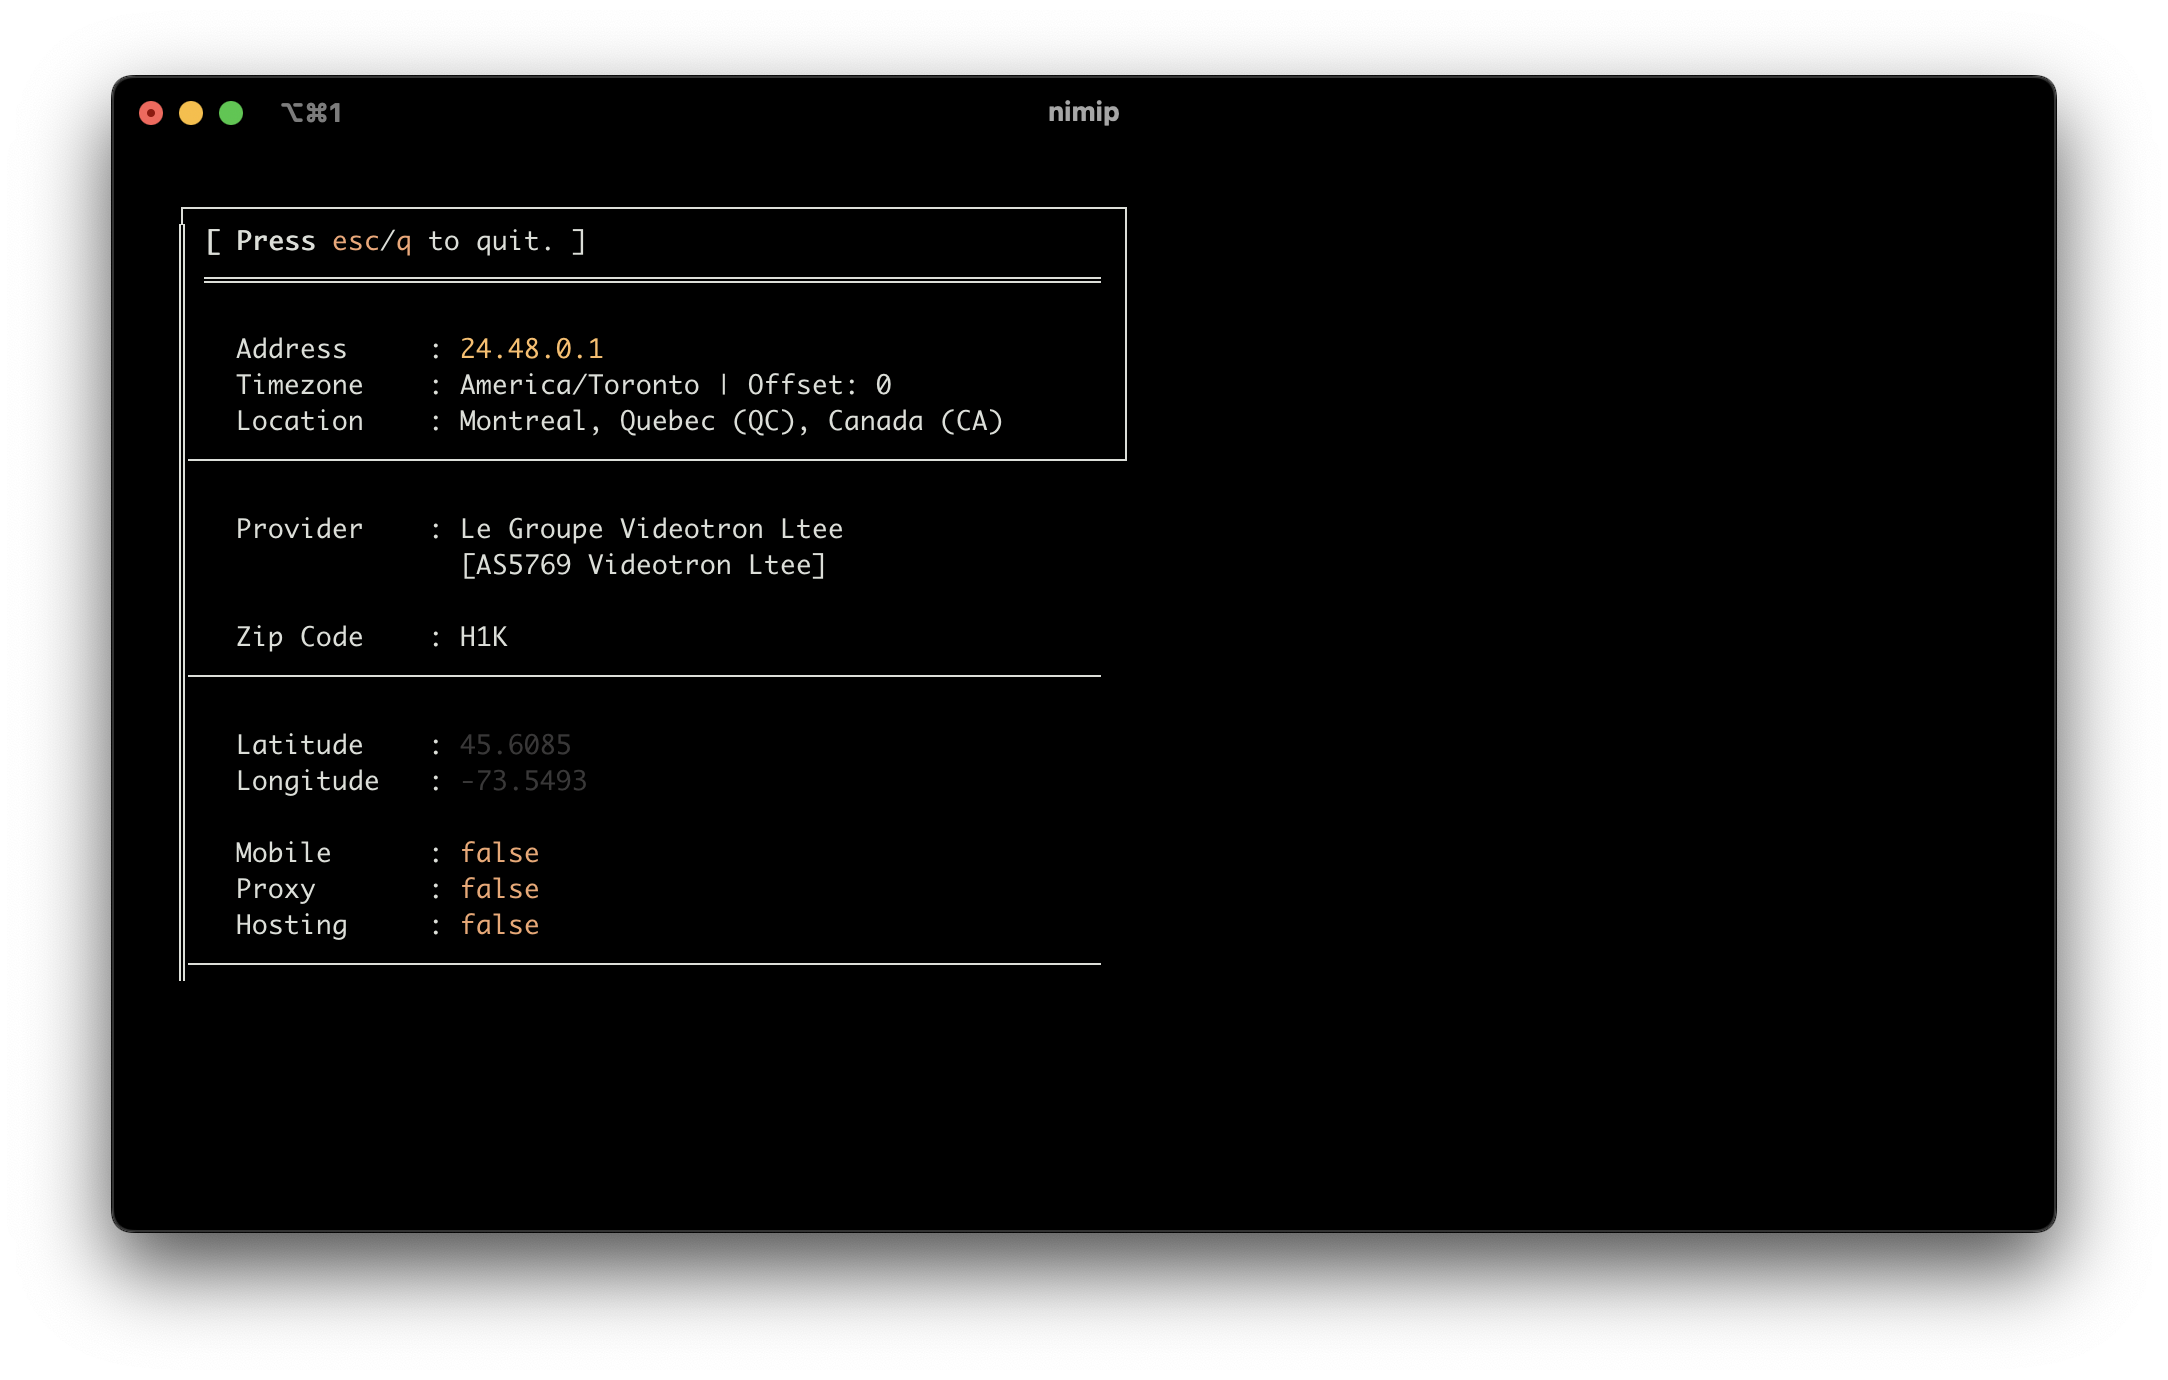
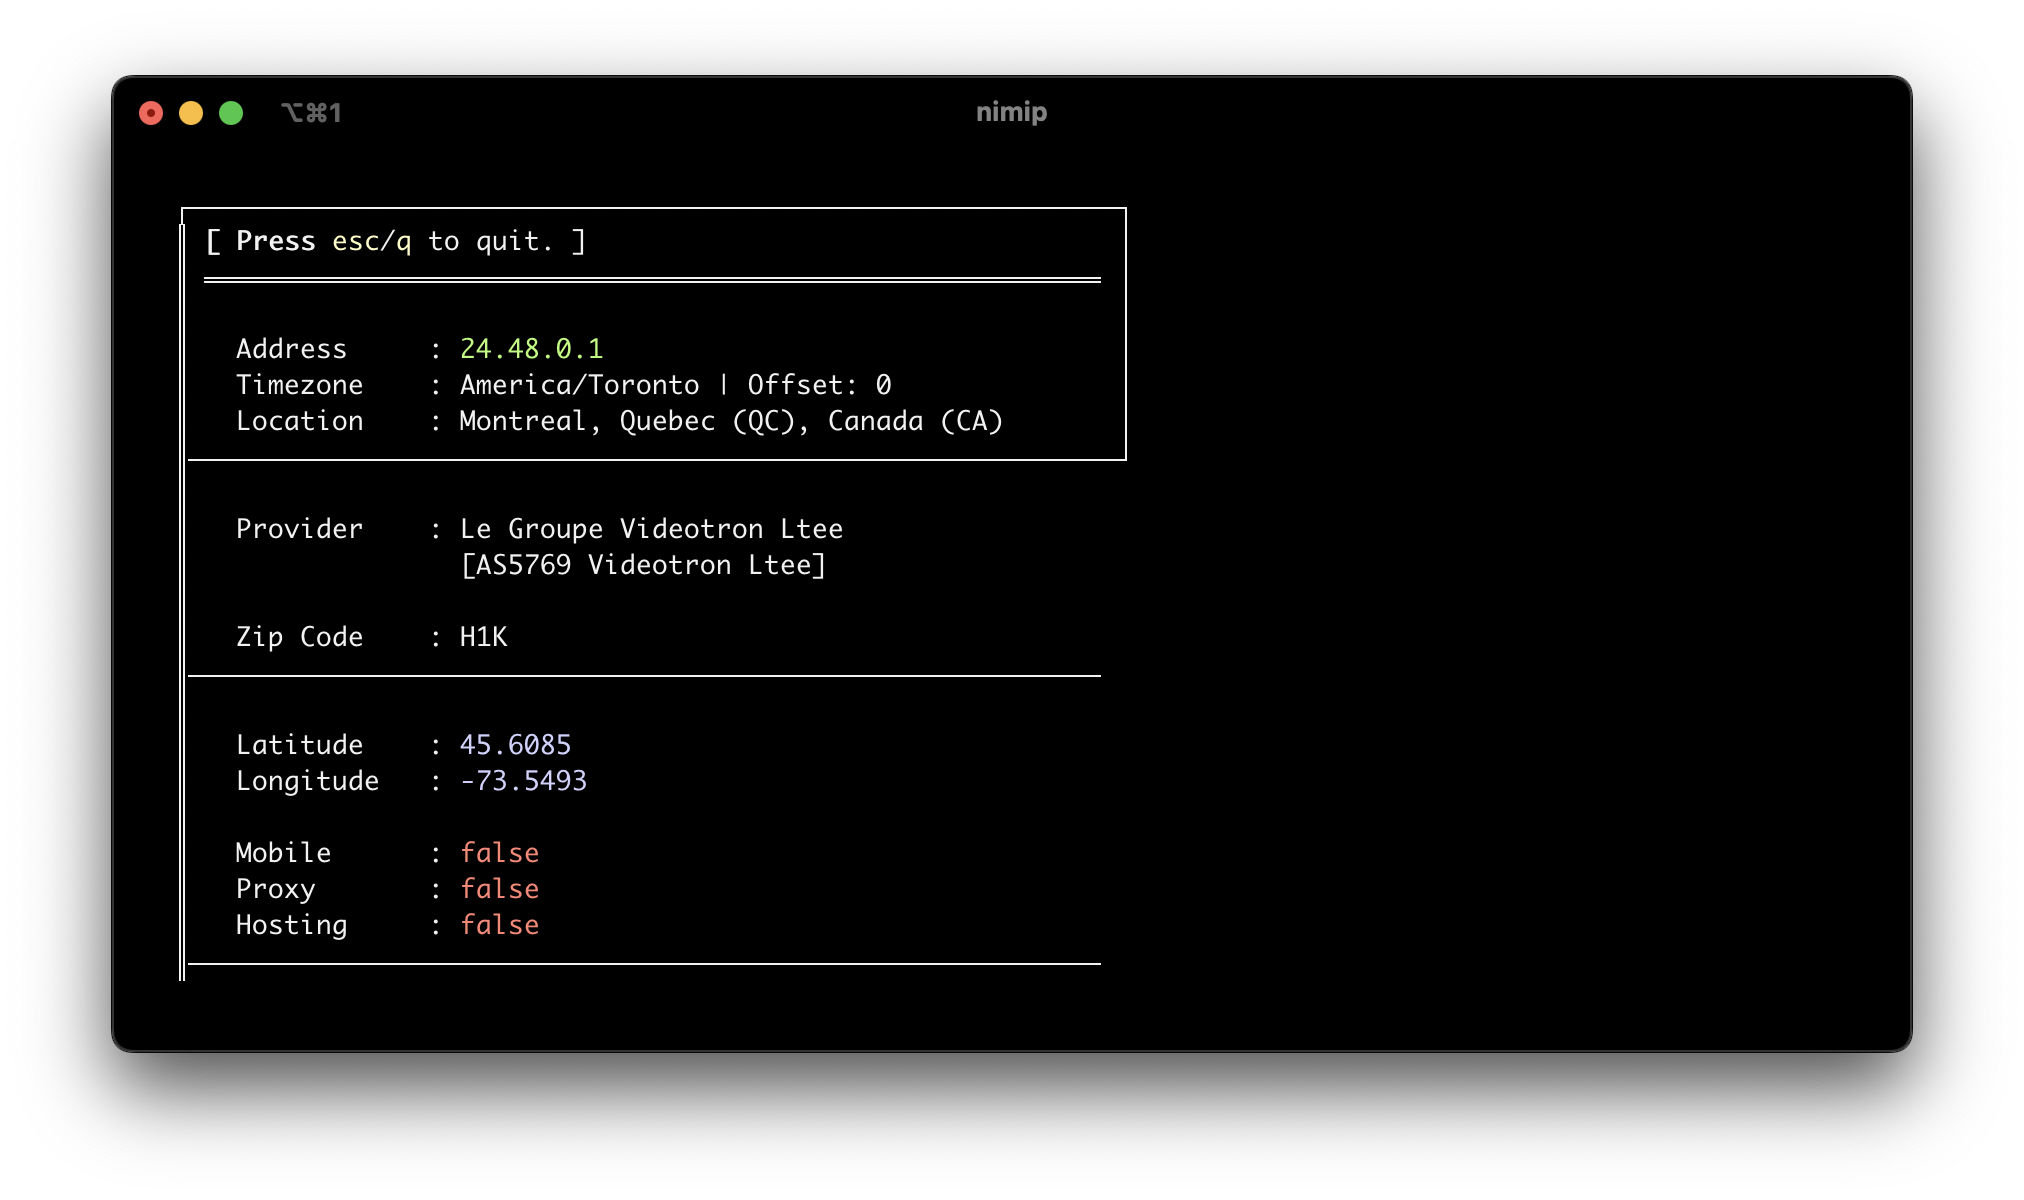
updated demo image

Changed region(s): [[0.0311, 0.0308, 0.9649, 0.925], [0.2179, 0.6167, 0.2801, 0.7708], [0.2179, 0.5242, 0.2801, 0.5858]]

diff --git a/README.md b/README.md
@@ -11,9 +11,6 @@
 
 <img src="https://github.com/hitblast/nimip/blob/main/static/demo.png" alt="Demo Terminal Image">
 
-<i>(the colors and text may vary depending on your terminal emulator)</i>
-<br>
-
 </div>
 
 ## Table of Contents
